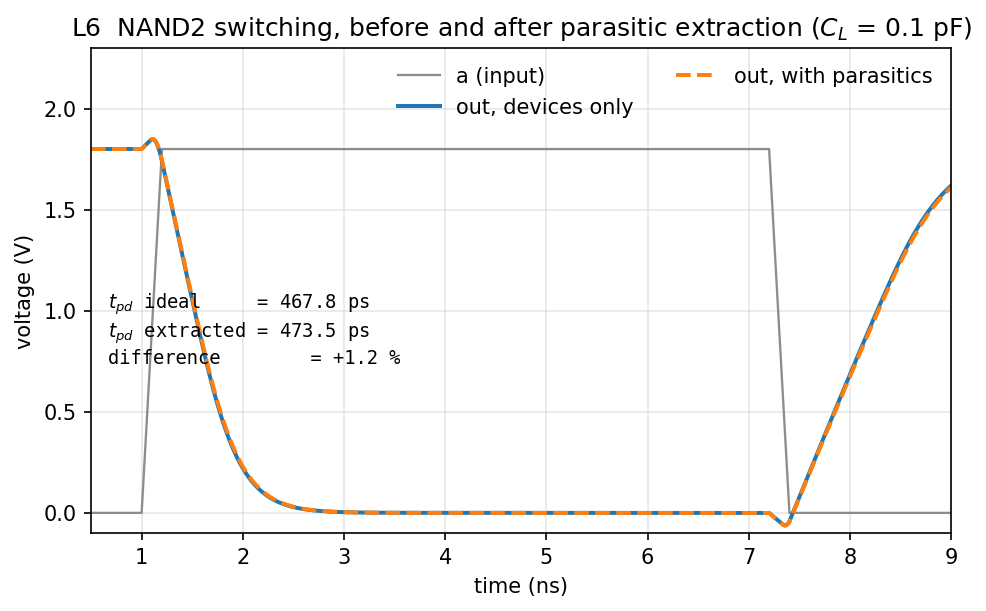
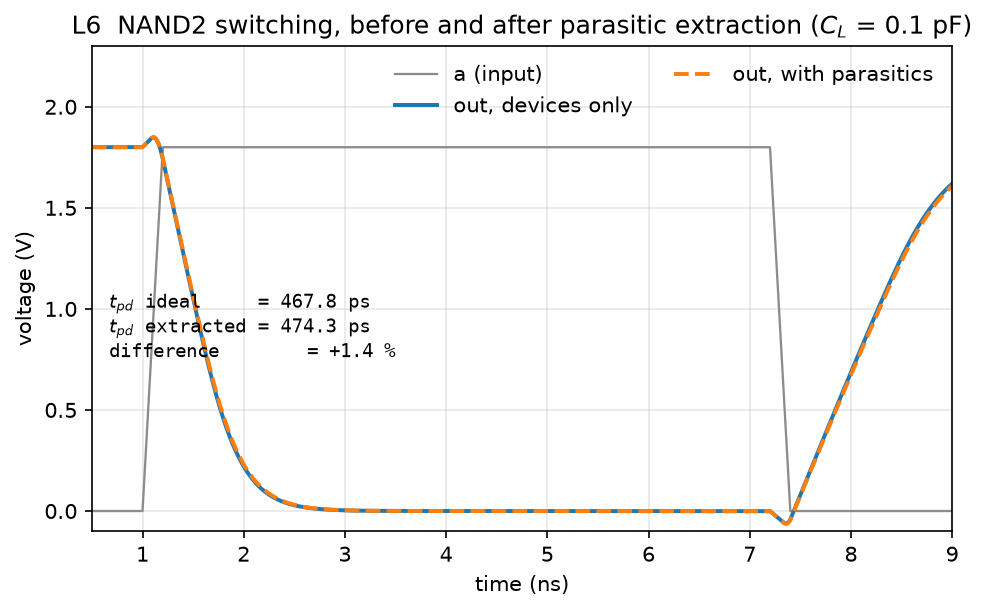
docs: uplift to IIC 2026.08, and fix three instructions that never worked
Numbers first: of the 35 quantities the manuals publish, 30 are unchanged on
2026.08 despite ngspice 46 -> 47 and a different PDK build. Only Lab 2's
extracted-delay column moved, because magic 8.3.681 drops zero-valued
capacitors -- 12 instead of 14, 9.34 fF instead of 9.94 -- and every post-PEX
delay is ~1 ps higher. Updated the L6 table, both figure captions, the "14
capacitors" sentence, and regenerated both figures. Each row was checked back
against the measurement and its percentage recomputed.

Three things the manuals told students to do that do not work. All predate this
uplift; they surfaced because the manuals were executed line by line for the
first time rather than running the decks behind them.

Lab 4 L1's sweep loop has never produced output. It seds the deck into /tmp,
which breaks the deck's relative `.include include/dff.spice`, so ngspice stops
with "Could not find include file" and the loop prints nothing. Writing the
scratch deck beside the original fixes it and reproduces the documented 240/220
ps boundary.

Lab 0's transistor recipe cannot reach `drc count` 0. Painting `ndcontact` with
no local interconnect over it fails rule li.5 sixteen times, while L2.3 tells
students to reach zero and Expected Results makes it a checkbox. The recipe now
paints `li` first with the contact inset, which measures 0 -- and meets the same
rule students see again in Lab 2.

Lab 2 L5's netgen invocation aborts on 2026.08 (netgen 1.5.323 chokes on
[…]

diff --git a/docs/labs/lab0/index.md b/docs/labs/lab0/index.md
@@ -121,8 +121,9 @@ Save with `Ctrl-S` as `inv.sch`.
 
 ### L1.4 Making a symbol
 
-**View → Make symbol** (`Shift-C`) generates a symbol from the ports, then `c`
-swaps between the schematic and symbol views.
+**Symbol → Make symbol from schematic** (`A`) generates a symbol from the ports,
+then `c` swaps between the schematic and symbol views. `Shift-C` is *draw arc*,
+not make-symbol — press it by mistake and you leave a stray arc behind.
 
 ![The inverter symbol](images/04-inverter-symbol.png)
 *Symbol view. Red squares are the pins. `@name` is substituted with each
@@ -171,7 +172,8 @@ write pulsegen.raw v(in) v(n3) v(out)
 .endc
 ```
 
-Select a wire and press `p` to plot it.
+Plot with the menubar: **Waves → Tran**, then pick the `.raw` the simulation
+wrote. (`p` is *draw polygon* in XSchem, not plot.)
 
 ![Pulse generator waveforms](images/07-pulsegen-waves.png)
 *Each rising edge of `in` produces one short low-going pulse on `out`.*
@@ -221,14 +223,26 @@ box 0.75um -0.4um 1.05um 1.4um
 paint poly
 ```
 
-Add a contact at each end so the source and drain can be wired:
+Add a contact at each end so the source and drain can be wired. Paint the local
+interconnect **first**, then the contact inset inside it:
 
 ```
 box 0.05um 0.1um 0.55um 0.9um
+paint li
+box 0.15um 0.2um 0.45um 0.8um
 paint ndcontact
 box 1.25um 0.1um 1.75um 0.9um
+paint li
+box 1.35um 0.2um 1.65um 0.8um
 paint ndcontact
 ```
+
+!!! warning "A contact with no `li` over it fails DRC everywhere"
+    Rule `li.5` wants local interconnect overhanging every cut. Paint the two
+    `ndcontact` rectangles on their own and Magic reports **16** violations, not
+    zero — which is why the `li` rectangle comes first and the contact is inset
+    inside it. You meet the same rule again in Lab 2, on every contact in the
+    NAND2.
 
 Press `v` to fit the view.
 
@@ -260,7 +274,8 @@ drc why
 `drc why` names the rule that was broken, which is faster than guessing. Get
 back to zero before you finish.
 
-Save with `Ctrl-S`.
+Save by typing `save fet` in tkcon, or **File → Save**. Magic binds `Ctrl-S` to
+*select less*, so it writes nothing and gives no warning.
 
 ---
 

diff --git a/docs/labs/lab2/index.md b/docs/labs/lab2/index.md
@@ -235,8 +235,8 @@ ext2spice -o nand2.pex.spice
 ```
 
 `cthresh 0` keeps every coupling capacitance. Without it the small ones are
-dropped and the comparison shows nothing. The reference layout yields 14
-capacitors, totalling a few femtofarads.
+dropped and the comparison shows nothing. The reference layout yields 12
+capacitors, totalling about 9.3 fF.
 
 Simulate both netlists with the same testbench, changing only the `.include`:
 
@@ -245,23 +245,23 @@ ngspice -b spice/nand2_compare.spice
 ```
 
 ![Ideal versus extracted](images/03-pex-compare.png)
-*With a 0.1 pF load the two traces almost coincide: 467.8 ps against 473.5 ps,
-a 1.2 % difference.*
+*With a 0.1 pF load the two traces almost coincide: 467.8 ps against 474.3 ps,
+a 1.4 % difference.*
 
 That looks like a disappointing result. It is the correct one, and the reason is
 the point of the exercise. Sweep the load and measure again:
 
 ![Parasitic contribution against load](images/04-pex-vs-load.png)
-*The parasitics add a roughly fixed 6 ps. Their share of the total delay is
-5.8 % with no load and 1.2 % at 0.1 pF.*
+*The parasitics add a roughly fixed 6.6 ps. Their share of the total delay is
+6.8 % with no load and 1.4 % at 0.1 pF.*
 
 | $C_L$ | ideal | extracted | change |
 |-------|-------|-----------|--------|
-| 0 | 100.0 ps | 105.8 ps | +5.8 % |
-| 1 fF | 104.0 ps | 109.8 ps | +5.6 % |
-| 5 fF | 120.0 ps | 125.7 ps | +4.8 % |
-| 20 fF | 177.1 ps | 182.7 ps | +3.2 % |
-| 100 fF | 467.8 ps | 473.5 ps | +1.2 % |
+| 0 | 100.0 ps | 106.8 ps | +6.8 % |
+| 1 fF | 104.0 ps | 110.8 ps | +6.5 % |
+| 5 fF | 120.0 ps | 126.7 ps | +5.6 % |
+| 20 fF | 177.1 ps | 183.6 ps | +3.7 % |
+| 100 fF | 467.8 ps | 474.3 ps | +1.4 % |
 
 Layout parasitics are an approximately fixed additive load. They dominate when a
 gate drives a short local wire and vanish into the noise when it drives a long

diff --git a/docs/getting-started/index.md b/docs/getting-started/index.md
@@ -76,7 +76,7 @@ Docker is the single piece of software you install yourself. It is free for educ
        docker run hello-world
        ```
 
-> **How much disk space?** The image is **5.5 GB compressed** to download and unpacks to about **19 GB**; with the PDK volume and a running container, budget **30 GB free** to be comfortable — a measured install comes to roughly 25 GB. The first launch takes a while depending on your connection; it only happens once.
+> **How much disk space?** The image is **3.8 GB compressed** to download and unpacks to about **12 GB**; with the PDK volume and a running container, budget **20 GB free** to be comfortable. The first launch takes a while depending on your connection; it only happens once.
 
 ---
 
@@ -255,7 +255,7 @@ A few habits save time:
 
 Teaching assistants and IT staff setting up the environment should refer to the **`ece334-instructor`** repository, and to [Building the docs](../maintainers/building.md) for the documentation toolchain.
 
-**Reproducibility note:** the Docker image tag is pinned in `.devcontainer/devcontainer.json` and `scripts/start_*.sh` (`DOCKER_TAG`, default `2026.04` — confirm before the term), and the PDK build is recorded in `pdk/volare.lock` after the pilot run. This ensures every student works in an identical, unchanging environment all term. The default browser password (`abc123`) can be changed by setting `VNC_PW` before launching.
+**Reproducibility note:** the Docker image tag is pinned in `.devcontainer/devcontainer.json` and `scripts/start_*.sh` (`DOCKER_TAG`, default `2026.08` — confirm before the term), and the PDK build is recorded in `pdk/volare.lock` after the pilot run. This ensures every student works in an identical, unchanging environment all term. The default browser password (`abc123`) can be changed by setting `VNC_PW` before launching.
 
 ---
 

diff --git a/docs/labs/lab4/index.md b/docs/labs/lab4/index.md
@@ -107,11 +107,18 @@ which the flip-flop still captures. Measure it by sweeping that gap:
 . /foss/designs/common/.designinit
 cd /foss/designs/lab4_sram
 for d in 2000 1000 500 300 240 220 200; do
-  sed "s/^.param DSKEW=.*/.param DSKEW=${d}p/" spice/dff_char.spice > /tmp/s.spice
+  sed "s/^.param DSKEW=.*/.param DSKEW=${d}p/" spice/dff_char.spice > spice/_sweep.spice
   printf "%6s ps  " "$d"
-  ngspice -b /tmp/s.spice 2>&1 | grep '^qfinal'
+  ngspice -b spice/_sweep.spice 2>&1 | grep '^qfinal'
 done
+rm -f spice/_sweep.spice
 ```
+
+!!! warning "Write the scratch deck beside the original, not in `/tmp`"
+    `dff_char.spice` pulls the flip-flop in with `.include include/dff.spice`, a
+    path relative to the deck. Move the deck to `/tmp` and that include no longer
+    resolves: ngspice stops with *"Could not find include file"* and the loop
+    prints nothing at all. Keeping the copy in `spice/` keeps the path valid.
 
 ![Setup time sweep](images/01-setup-time.png)
 *Capture succeeds down to 240 ps and fails at 220 ps.*

diff --git a/docs/reference/magic-cheatsheet.md b/docs/reference/magic-cheatsheet.md
@@ -72,7 +72,7 @@ looks blank, expand it.
 
 ```
 label VDD          # label the box on the current layer
-label GND! -e      # a trailing ! makes the name global
+label GND!         # a trailing ! makes the name global
 ```
 
 Label every port. LVS matches by name: an unlabelled or misspelled port is the
@@ -111,7 +111,13 @@ netlists: without it, capacitances below the threshold are discarded.
 Compare against a schematic with Netgen:
 
 ```bash
-netgen -batch lvs "cell.lvs.spice cell" "cell_sch.spice cell" \
+# Prefer the course wrapper -- it handles the netgen quirk below for you:
+/foss/designs/scripts/run_lvs.sh cell.lvs.spice xschem/cell_lvs.sch
+
+# Raw netgen, if you want it. Strip XSchem's commented top-level block first:
+awk '/^[*][*][.]subckt/{s=1;next} /^[*][*][.]ends/{s=0;next} !s' \
+    cell_sch.spice > cell_sch.netgen.spice
+netgen -batch lvs "cell.lvs.spice cell" "cell_sch.netgen.spice cell" \
        $PDK_ROOT/sky130A/libs.tech/netgen/sky130A_setup.tcl
 ```
 

diff --git a/docs/labs/lab1/index.md b/docs/labs/lab1/index.md
@@ -356,8 +356,9 @@ reinstalls the course configuration at `~/.xschem/xschemrc`, then reopen the
 schematic.
 
 **`verify_lab.sh` says "empty subcircuit(s) … the DUT has not been built yet".**
-The testbench is fine; the DUT behind it is still the empty stub. Double-click
-the DUT and build the circuit inside it.
+The testbench is fine; the DUT behind it is still the empty stub. Click the DUT
+once to select it, then press `e` to descend into it, and build the circuit
+there. (Double-clicking opens the Edit Properties dialog instead.)
 
 **`write` fails with "no writable vector found".**
 Same cause seen from ngspice's side: the nets named in the `.control` block do

diff --git a/docs/reference/xschem-cheatsheet.md b/docs/reference/xschem-cheatsheet.md
@@ -106,7 +106,7 @@ Pin order on both device symbols is **D G S B**.
 | Netlist | menubar **Netlist**, or `Shift-N` |
 | Simulate | menubar **Simulate** |
 | Fire a launcher (green arrow) | click it, then `Ctrl-H` |
-| Plot a net | select the wire, press `p` |
+| Plot a net | menubar **Waves → Tran**, then pick the `.raw` |
 | Annotate operating point | the **Annotate OP** button |
 
 Netlists and results land in `/foss/designs/.xschem/simulations`. In a notebook,
